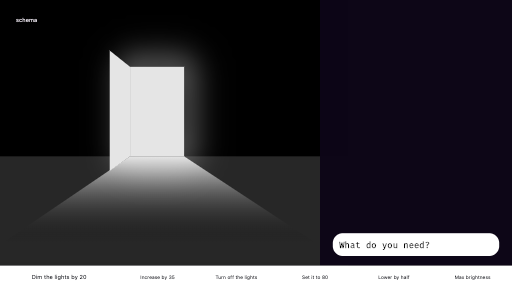
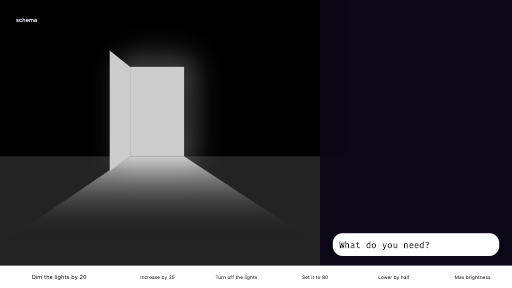
spanish version

Changed region(s): [[0.1875, 0.1875, 0.375, 0.5938]]

diff --git a/gen_ui_app/.superdeck/slides_copy.md b/gen_ui_app/.superdeck/slides_copy.md
@@ -471,9 +471,6 @@ style: 'demo'
 ---
 style: 'quote'
 ---
-> The future of UI might be orchestrating user
-> experiences rather than creating it.
-
 > El futuro de la UI podría ser orquestar
 > experiencias de usuario en lugar de crearlas.
 
@@ -484,4 +481,14 @@ style: 'quote'
 Leo Farias
 @leoafarias
 (GitHub, Twitter/X)
+
+#### Slides + Code
+https://github.com/leoafarias/gen-ui-talk
+
+{@column}
+
+### Want more AI?
+SESSION 10 - TRACK 2 - 15:20
+Hat-trick: Flutter + Gemini + Vertex
+by Fabian Varela
 

diff --git a/gen_ui_app/slides.md b/gen_ui_app/slides.md
@@ -487,9 +487,6 @@ style: demo
 style: quote
 ---
 
-> The future of UI might be orchestrating user
-> experiences rather than creating it.
-
 > El futuro de la UI podría ser orquestar
 > experiencias de usuario en lugar de crearlas.
 
@@ -500,3 +497,13 @@ style: quote
 Leo Farias
 @leoafarias
 (GitHub, Twitter/X)
+
+#### Slides + Code
+https://github.com/leoafarias/gen-ui-talk
+
+{@column}
+
+### Want more AI?
+SESSION 10 - TRACK 2 - 15:20
+Hat-trick: Flutter + Gemini + Vertex
+by Fabian Varela